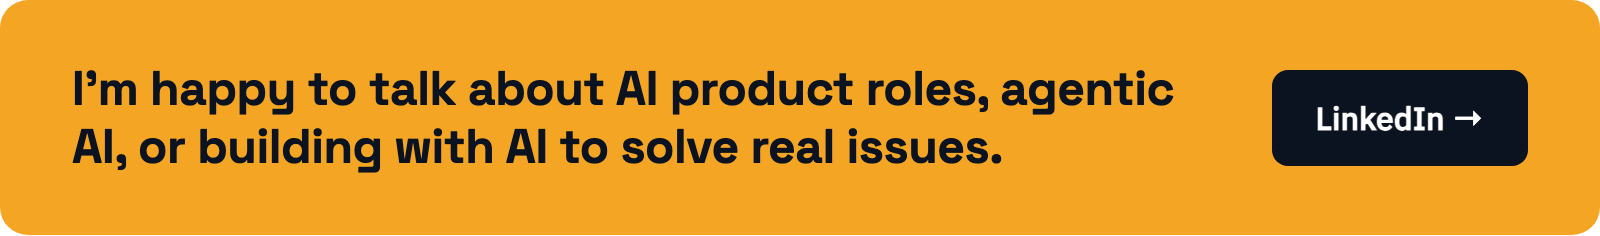
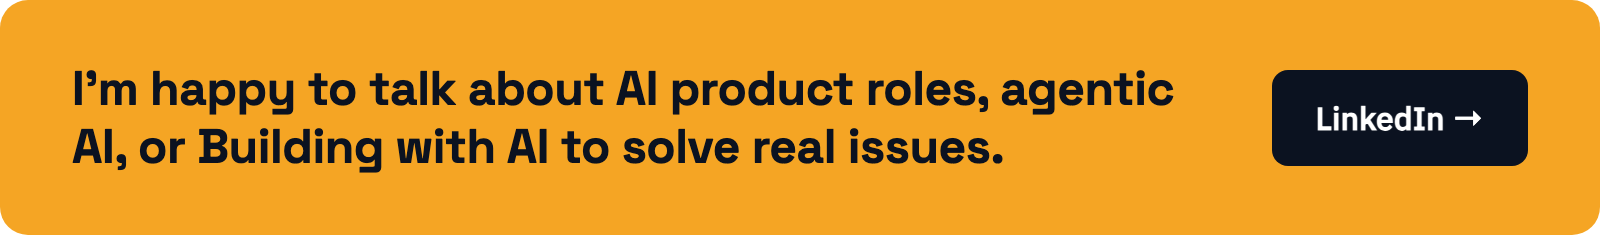
Capitalize "Building" in the contact line

Changed region(s): [[0.125, 0.5339, 0.625, 0.7119]]

diff --git a/assets/src/cta.html b/assets/src/cta.html
@@ -2,4 +2,4 @@
 #root{box-sizing:border-box;width:800px;background:#F5A524;color:#0B1220;border-radius:14px;padding:30px 36px;display:flex;align-items:center;justify-content:space-between;gap:24px}
 p{margin:0;font:700 24px/1.2 'Space Grotesk',sans-serif;letter-spacing:-.01em}
 b{display:inline-flex;align-items:center;height:48px;padding:0 22px;background:#0B1220;color:#fff;font:600 16px 'IBM Plex Sans',sans-serif;border-radius:8px;white-space:nowrap}
-</style></head><body><div id="root"><p>I'm happy to talk about AI product roles, agentic AI, or building with AI to solve real issues.</p><b>LinkedIn →</b></div><script>if(location.hash=="#light")document.documentElement.className="light";addEventListener("load",()=>setTimeout(()=>{document.documentElement.dataset.h=document.getElementById("root").getBoundingClientRect().height},300))</script></body></html>
+</style></head><body><div id="root"><p>I'm happy to talk about AI product roles, agentic AI, or Building with AI to solve real issues.</p><b>LinkedIn →</b></div><script>if(location.hash=="#light")document.documentElement.className="light";addEventListener("load",()=>setTimeout(()=>{document.documentElement.dataset.h=document.getElementById("root").getBoundingClientRect().height},300))</script></body></html>

diff --git a/docs/index.html b/docs/index.html
@@ -321,7 +321,7 @@ footer{padding:36px 0 56px;color:var(--mut);font:400 12.5px var(--mono)}
 <section id="talk" aria-labelledby="h-talk">
   <h2 id="h-talk">Let's talk</h2>
   <div class="cta">
-    <p>I'm happy to talk about AI product roles, agentic AI, or building with AI to solve real issues.</p>
+    <p>I'm happy to talk about AI product roles, agentic AI, or Building with AI to solve real issues.</p>
     <a href="https://www.linkedin.com/in/gaurav-pandvia">LinkedIn →</a>
   </div>
   <p style="margin:14px 0 0;color:var(--sub)">The best way to reach me is <a href="https://www.linkedin.com/in/gaurav-pandvia">LinkedIn</a>.</p>

diff --git a/README.md b/README.md
@@ -344,7 +344,7 @@ Seniors face isolation and find it hard to make meaningful connections.<br>
 
 ## Let's talk
 
-<a href="https://www.linkedin.com/in/gaurav-pandvia"><img src="assets/cta.png" alt="I'm happy to talk about AI product roles, agentic AI, or building with AI to solve real issues. LinkedIn." width="100%"> 
+<a href="https://www.linkedin.com/in/gaurav-pandvia"><img src="assets/cta.png" alt="I'm happy to talk about AI product roles, agentic AI, or Building with AI to solve real issues. LinkedIn." width="100%"> 
 
 </a>
 
